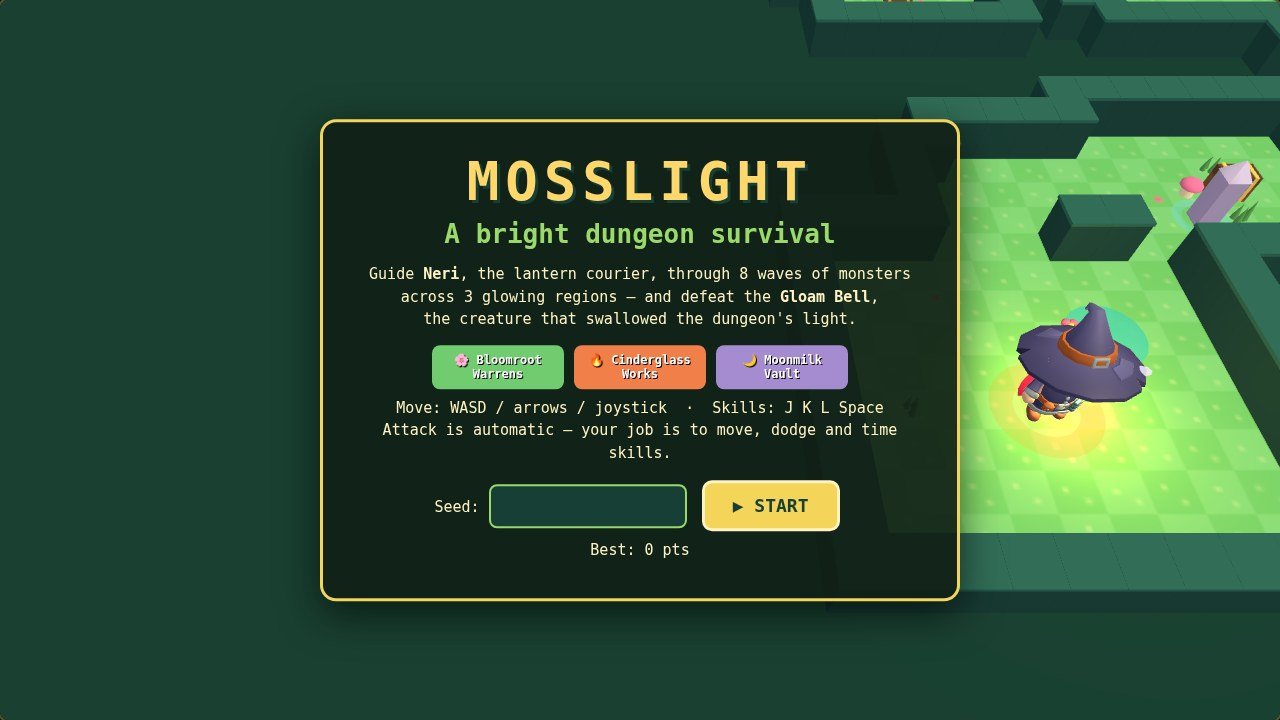
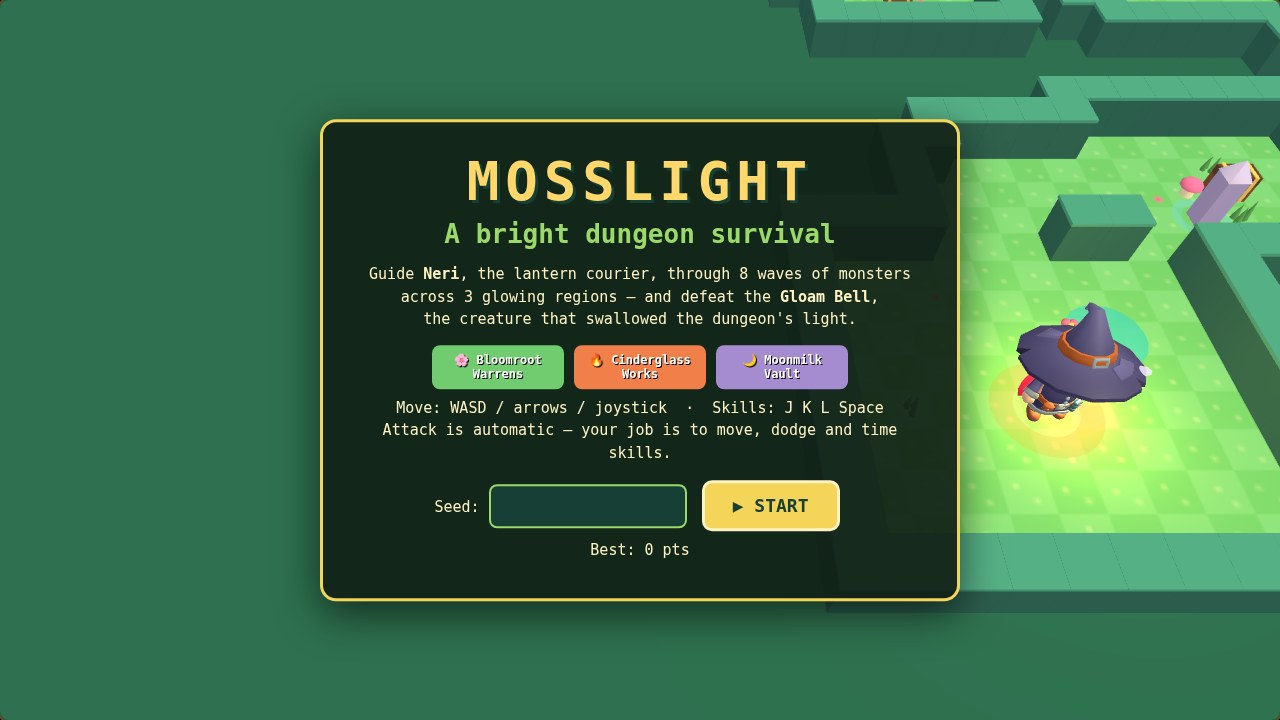
Mosslight v4-fix: minimap terbaca + Bloomroot terang

diff --git a/game/src/game.js b/game/src/game.js
@@ -331,7 +331,7 @@ export class Game {
       this.endRun('defeat');
     }
     this.minimapTick++;
-    if (this.minimapTick % 6 === 0 && !this.opts.autotest) this.drawMinimap();
+    if (this.minimapTick % 6 === 0 && (!this.opts.autotest || this.opts.shot)) this.drawMinimap();
     this.updateHUD();
   }
 
@@ -1346,46 +1346,48 @@ export class Game {
     if (!cv) return;
     const ctx = cv.getContext('2d');
     const S = cv.width; // square canvas
-    const sx = S / WORLD_W, sy = S / WORLD_H;
+    // Uniform scale (the world is 768x576, 4:3): keep proportions, centre
+    // the shorter side vertically. The old sx/sy stretched tiles.
+    const s = S / WORLD_W;
+    const offY = (S - WORLD_H * s) / 2;
+    const px = (x) => x * s;
+    const py = (y) => offY + y * s;
     ctx.clearRect(0, 0, S, S);
     // Round clip.
     ctx.save();
     ctx.beginPath();
     ctx.arc(S / 2, S / 2, S / 2, 0, Math.PI * 2);
     ctx.clip();
-    ctx.fillStyle = '#101018';
+    ctx.fillStyle = '#141420';
     ctx.fillRect(0, 0, S, S);
     const pal = AREAS[this.area];
+    // Walls first (visible tone), then bright floor tiles on top.
     for (let ty = 0; ty < GRID_H; ty++) {
       for (let tx = 0; tx < GRID_W; tx++) {
-        if (!isFloor(this.dungeon, tx, ty)) continue;
-        ctx.fillStyle = pal.floor;
-        ctx.globalAlpha = 0.85;
-        ctx.fillRect(tx * TILE * sx, ty * TILE * sy, TILE * sx + 0.5, TILE * sy + 0.5);
+        const floor = isFloor(this.dungeon, tx, ty);
+        ctx.fillStyle = floor ? pal.floor : (pal.mapWall || pal.wallTop);
+        ctx.globalAlpha = floor ? 1 : 0.95;
+        ctx.fillRect(px(tx * TILE), py(ty * TILE), TILE * s + 0.6, TILE * s + 0.6);
       }
     }
     ctx.globalAlpha = 1;
-    for (const e of this.enemies) {
-      ctx.fillStyle = '#ff4f6a';
+    const dot = (x, y, r, fill) => {
+      ctx.fillStyle = fill;
       ctx.beginPath();
-      ctx.arc(e.x * sx, e.y * sy, 2.5, 0, Math.PI * 2);
+      ctx.arc(px(x), py(y), r, 0, Math.PI * 2);
       ctx.fill();
-    }
-    if (this.boss) {
-      ctx.fillStyle = '#ffd76a';
-      ctx.beginPath();
-      ctx.arc(this.boss.x * sx, this.boss.y * sy, 4.5, 0, Math.PI * 2);
-      ctx.fill();
-    }
+      ctx.strokeStyle = 'rgba(0,0,0,0.65)';
+      ctx.lineWidth = 1;
+      ctx.stroke();
+    };
+    for (const e of this.enemies) dot(e.x, e.y, 3, '#ff4f6a');
+    if (this.boss) dot(this.boss.x, this.boss.y, 5, '#ffd76a');
     const p = this.player;
-    ctx.fillStyle = '#ffffff';
-    ctx.beginPath();
-    ctx.arc(p.x * sx, p.y * sy, 3.5, 0, Math.PI * 2);
-    ctx.fill();
+    dot(p.x, p.y, 3.5, '#ffffff');
     ctx.strokeStyle = '#ffd76a';
     ctx.lineWidth = 1.5;
     ctx.beginPath();
-    ctx.arc(p.x * sx, p.y * sy, 5.5, 0, Math.PI * 2);
+    ctx.arc(px(p.x), py(p.y), 5.5, 0, Math.PI * 2);
     ctx.stroke();
     ctx.restore();
   }

diff --git a/game/src/config.js b/game/src/config.js
@@ -171,21 +171,21 @@ export const FEEL = {
 export const AREAS = [
   { // Bloomroot Warrens
     name: 'Bloomroot Warrens',
-    outline: '#173F35', wall: '#1F4A44', wallTop: '#2E6B5E', floor: '#71CC6F',
+    outline: '#2A6B52', wall: '#35705F', wallTop: '#4FA88A', floor: '#71CC6F',
     floorAlt: '#7ED47E', moss: '#A5E37A', water: '#45C8B2', flower: '#FF7099',
-    loot: '#F5D45A', highlight: '#FFF3C4', sky: '#0E2A24',
+    loot: '#F5D45A', highlight: '#FFF3C4', sky: '#173B2E', mapWall: '#57B795',
   },
   { // Cinderglass Works
     name: 'Cinderglass Works',
     outline: '#472C36', wall: '#5C3644', wallTop: '#7A4A58', floor: '#F07F4A',
     floorAlt: '#F58F5C', forge: '#F59B42', machinery: '#35C9D0', hazard: '#E94F62',
-    loot: '#FFE073', highlight: '#FFF2D0', sky: '#2A1420',
+    loot: '#FFE073', highlight: '#FFF2D0', sky: '#2A1420', mapWall: '#C08A96',
   },
   { // Moonmilk Vault
     name: 'Moonmilk Vault',
     outline: '#39294F', wall: '#6058AC', wallTop: '#7A72C4', floor: '#A58CD0',
     floorAlt: '#B39DDB', crystal: '#C9BBF5', glow: '#76DDE0', fungus: '#A7E760',
-    loot: '#FFD76A', highlight: '#F6F0FF', sky: '#1C1430',
+    loot: '#FFD76A', highlight: '#F6F0FF', sky: '#1C1430', mapWall: '#A89FE8',
   },
 ];
 

diff --git a/game/src/world.js b/game/src/world.js
@@ -35,7 +35,7 @@ export function createWorld(canvas) {
   renderer.setPixelRatio(Math.min(window.devicePixelRatio || 1, 2));
   const scene = new THREE.Scene();
   const camera = new THREE.PerspectiveCamera(CAM.fov, 1, 0.1, 200);
-  const ambient = new THREE.AmbientLight(0xffffff, 1.35);
+  const ambient = new THREE.AmbientLight(0xffffff, 1.6);
   scene.add(ambient);
   const sun = new THREE.DirectionalLight(0xfff2d0, 2.4);
   sun.position.set(6, 14, 4);

diff --git a/game/src/main.js b/game/src/main.js
@@ -168,6 +168,7 @@ if (autotest) {
       else if (game.shotConditionMet()) game.shotReady = true;
       world.sync(game, dt);
       game.updateHUD();
+      if (game.shotReady) game.drawMinimap(); // freeze the minimap too
       return;
     }
     game.step(STEP);
